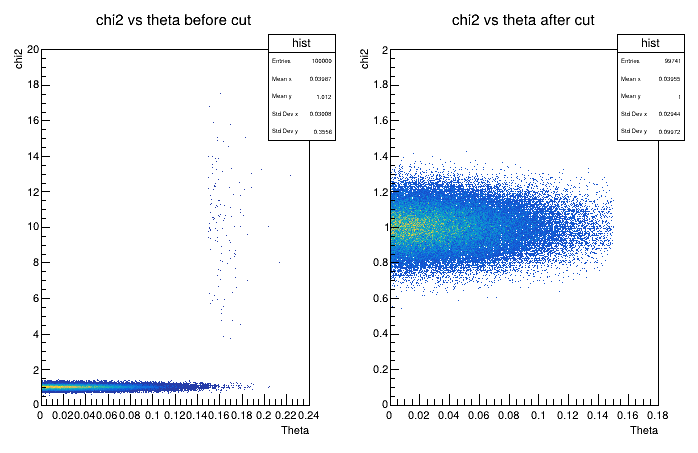
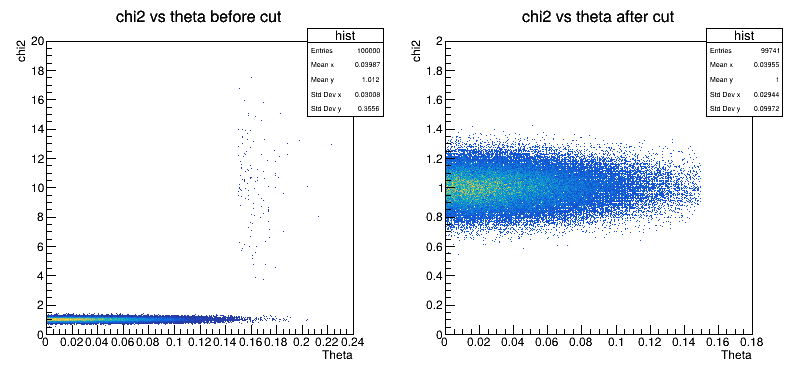
final CPP path

diff --git a/CPP/physicsCut.C b/CPP/physicsCut.C
@@ -5,7 +5,7 @@ void physicsCut() {
     TH2D* hist_ac = nullptr;
 
     // Initialisations
-    c = new TCanvas();
+    c = new TCanvas("c", "c", 800, 400);
     c->Divide(2,0);
     hist_bc = new TH2D("hist", "chi2 vs theta before cut", 500, 0., 0.24, 500, 0., 20.);
     hist_ac = new TH2D("hist", "chi2 vs theta after cut", 500, 0., 0.18, 500, 0., 2.);
@@ -45,4 +45,8 @@ void physicsCut() {
     hist_ac->GetYaxis()->SetTitle("chi2");
 
     c->SaveAs("CPP/OUTPUTS/PhysicsCut.png");
+    TFile file1("CPP/OUTPUTS/output.root","UPDATE");
+    hist_bc->Write();
+    hist_ac->Write();
+    file1.Close();
 }

diff --git a/CPP/AnalyzeReader.C b/CPP/AnalyzeReader.C
@@ -7,7 +7,7 @@ void AnalyzeReader() {
     Int_t zvCount;
 
     // Initialisations
-    c = new TCanvas();
+    c = new TCanvas("c", "c", 1200, 400);
     c->Divide(3,0);
 
     zvCount = 0;
@@ -55,4 +55,10 @@ void AnalyzeReader() {
     std::cout<<"Number of zv<20: "<<zvCount;
 
     c->SaveAs("CPP/OUTPUTS/analyzeReader_cuts.png");
+    TFile file1("CPP/OUTPUTS/output.root","UPDATE");
+    ebeamHist->Write();
+    ptHist->Write();
+    zvHist_withCut->Write();
+    file1.Close();
+
 }

diff --git a/CPP/eLoss.C b/CPP/eLoss.C
@@ -33,4 +33,7 @@ void eLoss(){
     hist->GetYaxis()->SetTitle("zv");
 
     c->SaveAs("CPP/OUTPUTS/eloss.png");
+    TFile file1("CPP/OUTPUTS/output.root","UPDATE");
+    hist->Write();
+    file1.Close();
 }
